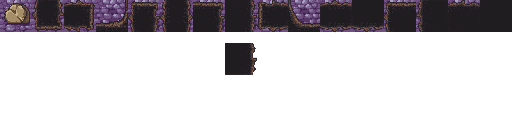
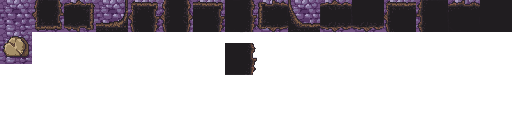
changs

Changed region(s): [[0.0, 0.25, 0.0625, 0.5], [0.0, 0.0312, 0.0625, 0.2188]]

diff --git a/davidV.cpp b/davidV.cpp
@@ -215,8 +215,8 @@ void getBlockTexCoords(int type, float &x1, float &x2, float &y1, float &y2) {
 	} else {
 		x1 = (float) 32/512;
 		x2 = 0;
-		y1 = (float) 1/4;
-		y2 = 0;
+		y1 = (float) 2/4;
+		y2 = (float) 1/4;
 	}
 	/*switch(type) {
 		case 0:
